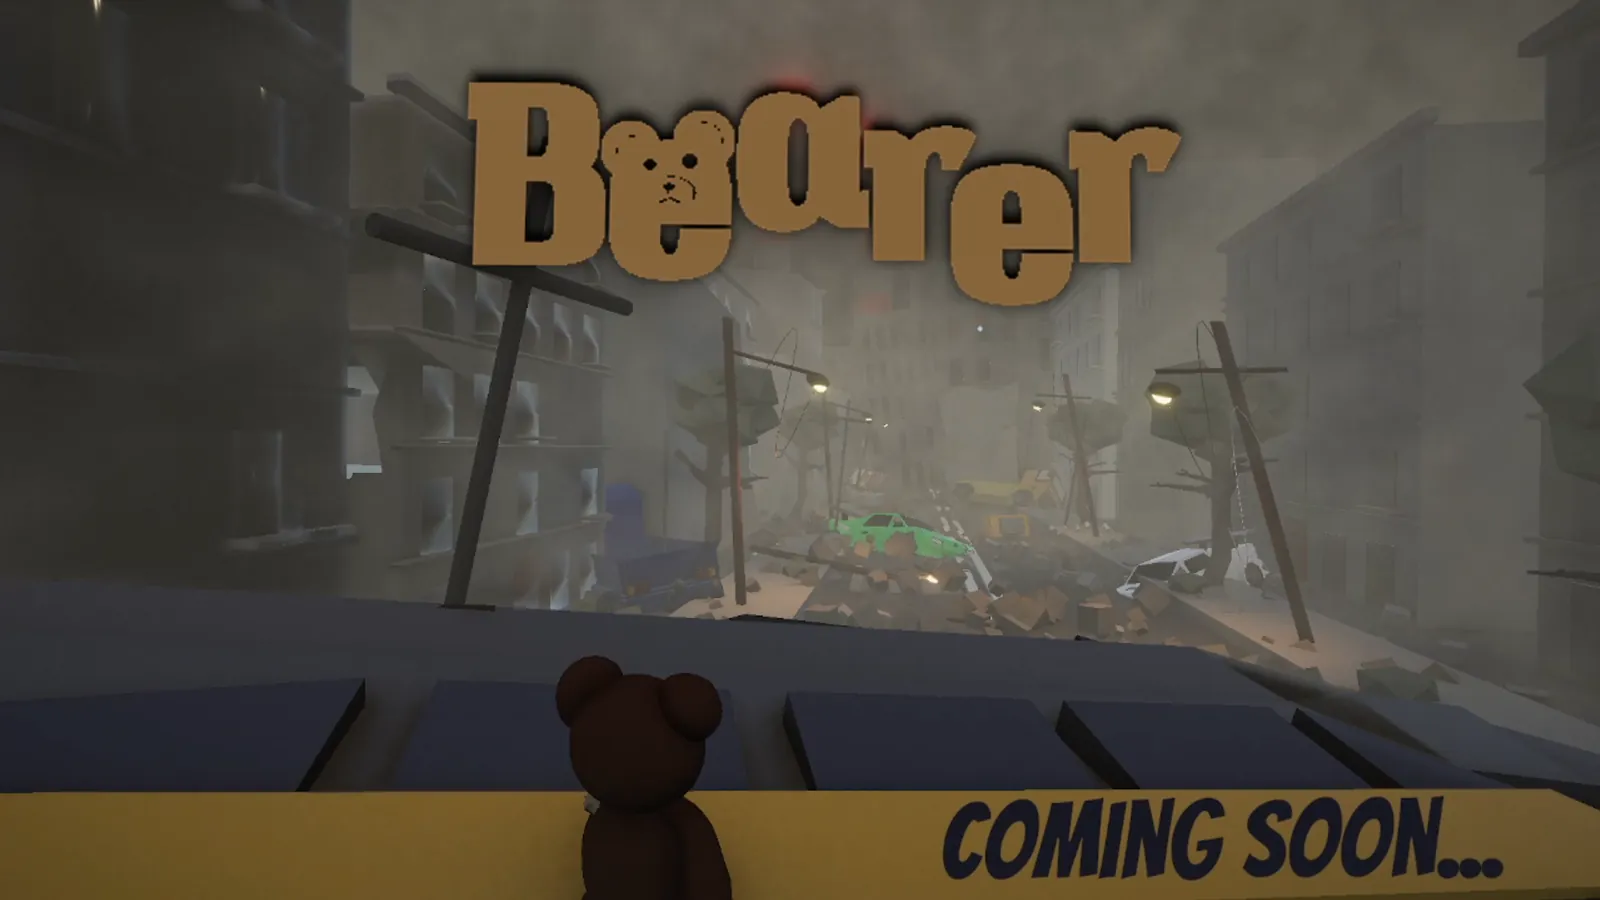
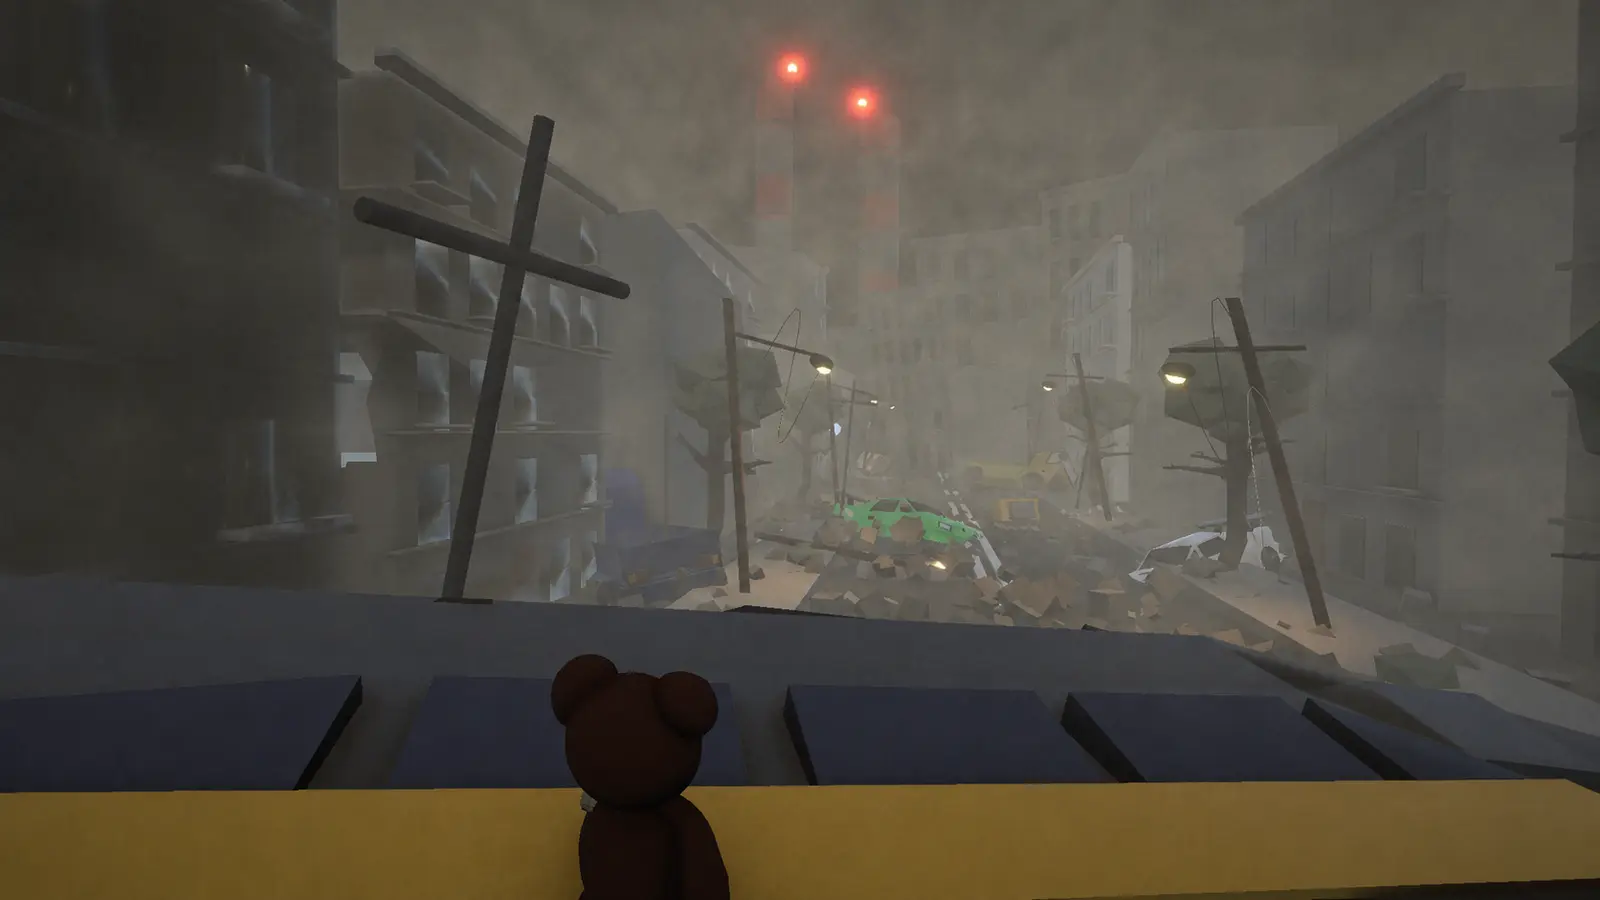
F05: Regenerate the Bearer card art from the text-free source
The bearer-* card variants were built from the old export with the wordmark and
the yellow "COMING SOON..." banner baked in, which contradicted the card's own
"Play demo on itch.io" link. They are now regenerated from art-src/BearerNoText.png
at the same names and widths, so the stale exports are replaced rather than
orphaned. Markup, sizes and both link targets are unchanged.

diff --git a/tasks/F05-use-text-free-bearer-card-art.md b/tasks/F05-use-text-free-bearer-card-art.md
@@ -2,7 +2,7 @@
 
 | Type | Priority | Effort | Status |
 |---|---|---|---|
-| Fix | P1 | XS | Todo |
+| Fix | P1 | XS | Done |
 
 **Depends on:** F01 (same source image and generated variants; do F01 first and reuse them)
 **Blocked on:** — **The studio supplied `public/games/BearerNoText.png` (1672×940, no text) on 2026-09-12.** The current card variants (`bearer-*.avif/webp/jpg`) were generated from the old "COMING SOON" art and must be regenerated from this source.
@@ -21,10 +21,18 @@ The Bearer card shows clean game art that doesn't contradict the "Play demo" cal
 - Leave format conversion and `srcset` to F12.
 
 ## Acceptance criteria
-- [ ] No baked-in "COMING SOON" (or other marketing text) is visible on the Bearer card at any width
-- [ ] Subject reads clearly at 1440 px, 1024 px and ~400 px widths
-- [ ] Link targets at `src/main.js:40-41` are unchanged
-- [ ] `npm run build` succeeds
+- [x] No baked-in "COMING SOON" (or other marketing text) is visible on the Bearer card at any width
+- [x] Subject reads clearly at 1440 px, 1024 px and ~400 px widths
+- [x] Link targets at `src/main.js:40-41` are unchanged
+- [x] `npm run build` succeeds
+
+## Result
+The `bearer-*` variants were regenerated from `art-src/BearerNoText.png` (the F01 source) at the same
+names and widths, so the old "COMING SOON" exports are replaced rather than left behind as orphans:
+`bearer-{640,960,1280,1600}.{avif,webp}` plus the `bearer-1280.jpg` fallback, 4.7–42.4 KB each.
+Markup, `sizes`, the intrinsic 1280×720 and both link targets are unchanged. The card's default
+centred crop keeps the bear in frame from 1440 px down to 400 px, so no `object-position` modifier
+was needed.
 
 ## Out of scope
 - Hero image (F01)

diff --git a/tasks/README.md b/tasks/README.md
@@ -11,7 +11,7 @@ Effort: XS < 30 min · S ≈ 1–2 h · M ≈ half day · L ≈ 1+ day.
 | F02 | [Point "Meet the team" at the team section](F02-fix-meet-the-team-link.md) | Fix | P1 | XS | Done | — |
 | F03 | [Move the footer into a real `<footer>` and show the current year](F03-move-footer-into-footer-element-with-current-year.md) | Fix | P2 | S | Done | — |
 | F04 | [Link the Instagram and Bluesky profiles in the footer](F04-link-social-profiles-in-footer.md) | Fix | P2 | XS | Todo (Instagram only) | F03, C27 |
-| F05 | [Replace the "COMING SOON" Bearer card art with a text-free image](F05-use-text-free-bearer-card-art.md) | Fix | P1 | XS | Todo | F01 |
+| F05 | [Replace the "COMING SOON" Bearer card art with a text-free image](F05-use-text-free-bearer-card-art.md) | Fix | P1 | XS | Done | F01 |
 | F06 | [Replace the low-resolution Kindred Paws card image](F06-replace-low-res-kindred-paws-image.md) | Fix | P2 | S | Blocked | — |
 | F07 | [Resolve the "???" placeholder team members](F07-resolve-team-placeholder-members.md) | Fix | P2 | S | Blocked | — |
 | F08 | [Add Open Graph / Twitter tags, canonical, a descriptive title and a `<noscript>` fallback](F08-add-social-meta-canonical-and-noscript.md) | Fix | P1 | S | Done | — |
